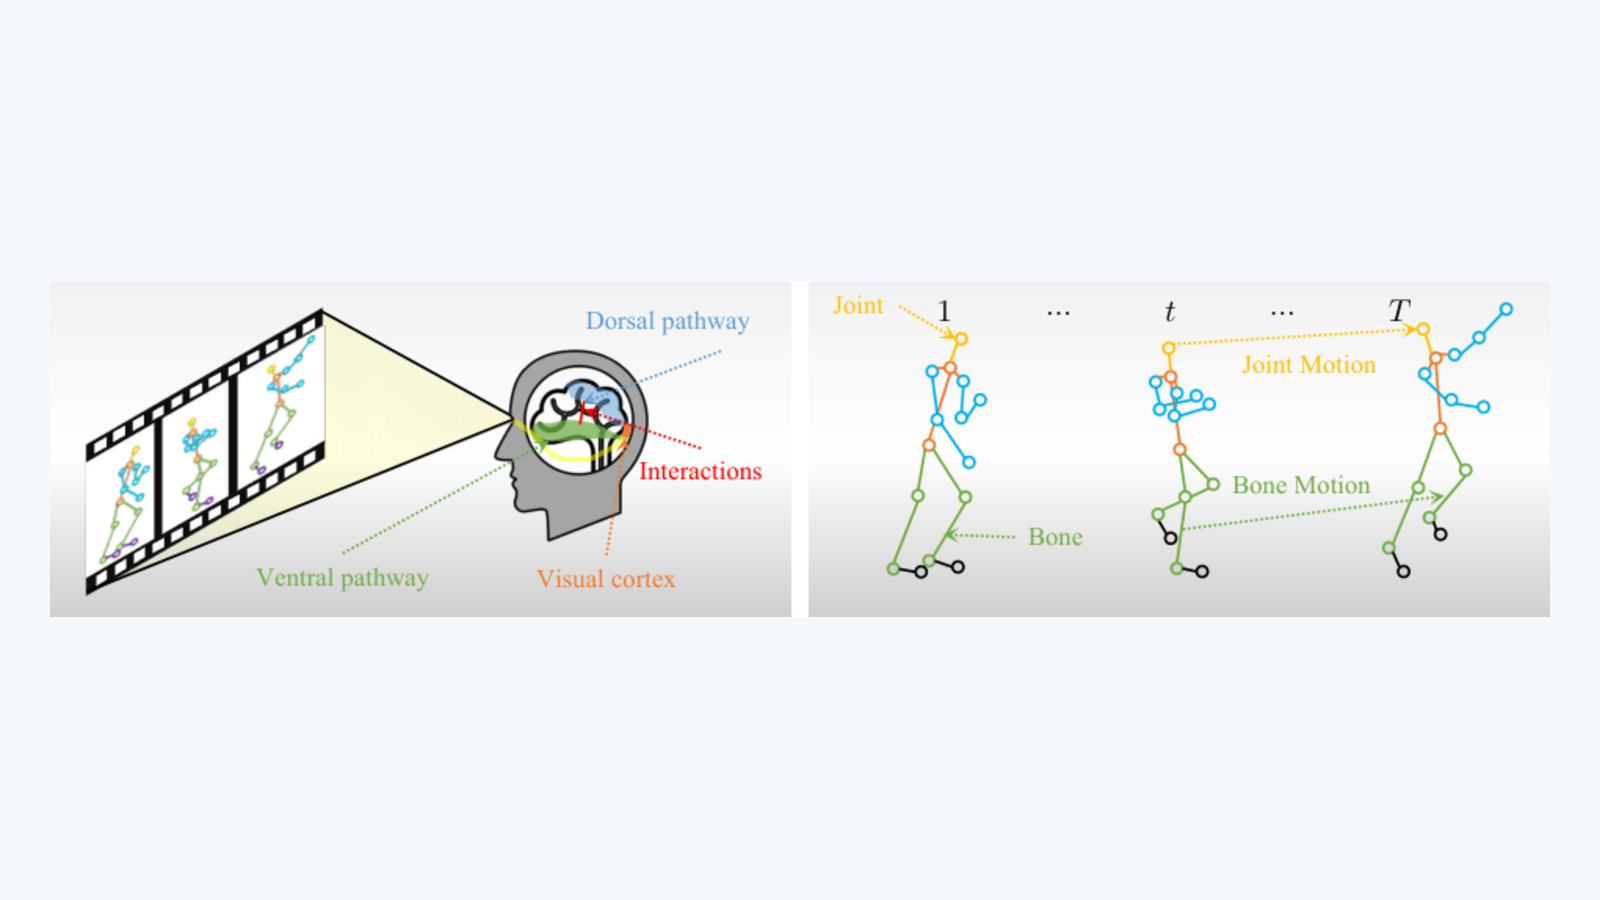
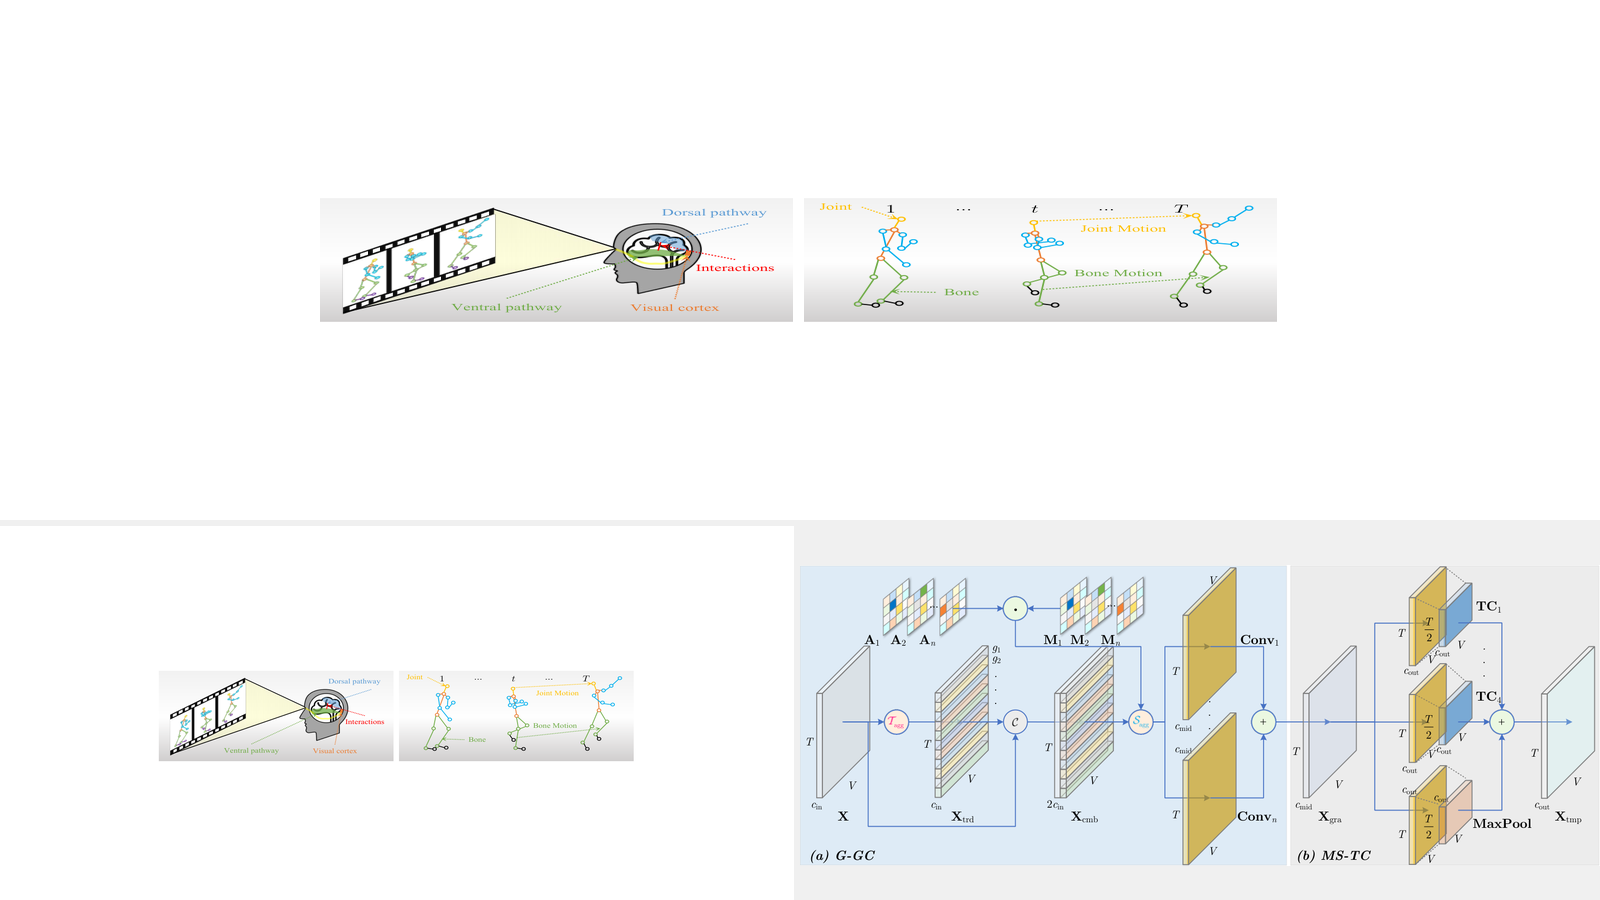
deploy: ZhouKanglei/ZKL-page@eb9e815d48cb6b4be95f74f9d78c2ef96aa6c5aa

diff --git a/publications/index.html b/publications/index.html
@@ -9935,7 +9935,7 @@ According to CCF Ranking 2026
     
       
       <a href="/publications/dualalign/" >
-        <img src="/publications/dualalign/featured_hu2c6c82b5b7f7fe32f763a8c38b9184f7_433187_150x0_resize_q75_h2_lanczos_3.webp"
+        <img src="/publications/dualalign/featured_hua90ec8a6fd02637ba0e7bcb6b740e75d_730568_150x0_resize_q75_h2_lanczos_3.webp"
             width="150" height="84"
             alt="Two-Stage Multi-Modal Fusion with Adaptive Alignment for Action Quality Assessment" loading="lazy">
       </a>
@@ -10949,7 +10949,7 @@ According to CCF Ranking 2026
     
       
       <a href="/publications/neuropath/" >
-        <img src="/publications/neuropath/featured_hu20c5179ab2d051b6f0931563039fc425_210019_150x0_resize_q75_h2_lanczos_3.webp"
+        <img src="/publications/neuropath/featured_hu09c499636f4b0f4edc79507adf7ca7d2_233836_150x0_resize_q75_h2_lanczos_3.webp"
             width="150" height="84"
             alt="NeuroPath: Brain-Inspired Dual-Pathway Graph Convolutional Networks for Skeleton-Based Action Recognition" loading="lazy">
       </a>

diff --git a/publication-type/2/index.html b/publication-type/2/index.html
@@ -6553,7 +6553,7 @@ According to CCF Ranking 2026
     
       
       <a href="/publications/dualalign/" >
-        <img src="/publications/dualalign/featured_hu2c6c82b5b7f7fe32f763a8c38b9184f7_433187_150x0_resize_q75_h2_lanczos_3.webp"
+        <img src="/publications/dualalign/featured_hua90ec8a6fd02637ba0e7bcb6b740e75d_730568_150x0_resize_q75_h2_lanczos_3.webp"
             width="150" height="84"
             alt="Two-Stage Multi-Modal Fusion with Adaptive Alignment for Action Quality Assessment" loading="lazy">
       </a>
@@ -7567,7 +7567,7 @@ According to CCF Ranking 2026
     
       
       <a href="/publications/neuropath/" >
-        <img src="/publications/neuropath/featured_hu20c5179ab2d051b6f0931563039fc425_210019_150x0_resize_q75_h2_lanczos_3.webp"
+        <img src="/publications/neuropath/featured_hu09c499636f4b0f4edc79507adf7ca7d2_233836_150x0_resize_q75_h2_lanczos_3.webp"
             width="150" height="84"
             alt="NeuroPath: Brain-Inspired Dual-Pathway Graph Convolutional Networks for Skeleton-Based Action Recognition" loading="lazy">
       </a>

diff --git a/tag/highlights/index.html b/tag/highlights/index.html
@@ -7063,7 +7063,7 @@ According to CCF Ranking 2026
     
       
       <a href="/publications/dualalign/" >
-        <img src="/publications/dualalign/featured_hu2c6c82b5b7f7fe32f763a8c38b9184f7_433187_150x0_resize_q75_h2_lanczos_3.webp"
+        <img src="/publications/dualalign/featured_hua90ec8a6fd02637ba0e7bcb6b740e75d_730568_150x0_resize_q75_h2_lanczos_3.webp"
             width="150" height="84"
             alt="Two-Stage Multi-Modal Fusion with Adaptive Alignment for Action Quality Assessment" loading="lazy">
       </a>
@@ -8077,7 +8077,7 @@ According to CCF Ranking 2026
     
       
       <a href="/publications/neuropath/" >
-        <img src="/publications/neuropath/featured_hu20c5179ab2d051b6f0931563039fc425_210019_150x0_resize_q75_h2_lanczos_3.webp"
+        <img src="/publications/neuropath/featured_hu09c499636f4b0f4edc79507adf7ca7d2_233836_150x0_resize_q75_h2_lanczos_3.webp"
             width="150" height="84"
             alt="NeuroPath: Brain-Inspired Dual-Pathway Graph Convolutional Networks for Skeleton-Based Action Recognition" loading="lazy">
       </a>

diff --git a/publications/dualalign/index.html b/publications/dualalign/index.html
@@ -3213,7 +3213,7 @@ According to CCF Ranking 2026
 
   <div class="article-header article-container featured-image-wrapper mt-4 mb-4" style="max-width: 720px; max-height: 405px;">
     <div style="position: relative">
-      <img src="/publications/dualalign/featured_hu2c6c82b5b7f7fe32f763a8c38b9184f7_433187_720x2500_fit_q75_h2_lanczos_3.webp" width="720" height="405" alt="" class="featured-image">
+      <img src="/publications/dualalign/featured_hua90ec8a6fd02637ba0e7bcb6b740e75d_730568_720x2500_fit_q75_h2_lanczos_3.webp" width="720" height="405" alt="" class="featured-image">
       <span class="article-header-caption">DualAlign framework overview</span>
     </div>
   </div>

diff --git a/publications/neuropath/index.html b/publications/neuropath/index.html
@@ -3213,7 +3213,7 @@ According to CCF Ranking 2026
 
   <div class="article-header article-container featured-image-wrapper mt-4 mb-4" style="max-width: 720px; max-height: 405px;">
     <div style="position: relative">
-      <img src="/publications/neuropath/featured_hu20c5179ab2d051b6f0931563039fc425_210019_720x2500_fit_q75_h2_lanczos_3.webp" width="720" height="405" alt="" class="featured-image">
+      <img src="/publications/neuropath/featured_hu09c499636f4b0f4edc79507adf7ca7d2_233836_720x2500_fit_q75_h2_lanczos_3.webp" width="720" height="405" alt="" class="featured-image">
       <span class="article-header-caption">NeuroPath framework overview</span>
     </div>
   </div>

diff --git a/tag/skeleton-based-action-recognition/index.html b/tag/skeleton-based-action-recognition/index.html
@@ -2953,7 +2953,7 @@ According to CCF Ranking 2026
     
       
       <a href="/publications/neuropath/" >
-        <img src="/publications/neuropath/featured_hu20c5179ab2d051b6f0931563039fc425_210019_150x0_resize_q75_h2_lanczos_3.webp"
+        <img src="/publications/neuropath/featured_hu09c499636f4b0f4edc79507adf7ca7d2_233836_150x0_resize_q75_h2_lanczos_3.webp"
             width="150" height="84"
             alt="NeuroPath: Brain-Inspired Dual-Pathway Graph Convolutional Networks for Skeleton-Based Action Recognition" loading="lazy">
       </a>

diff --git a/tag/action-quality-assessment/index.html b/tag/action-quality-assessment/index.html
@@ -5666,7 +5666,7 @@ According to CCF Ranking 2026
     
       
       <a href="/publications/dualalign/" >
-        <img src="/publications/dualalign/featured_hu2c6c82b5b7f7fe32f763a8c38b9184f7_433187_150x0_resize_q75_h2_lanczos_3.webp"
+        <img src="/publications/dualalign/featured_hua90ec8a6fd02637ba0e7bcb6b740e75d_730568_150x0_resize_q75_h2_lanczos_3.webp"
             width="150" height="84"
             alt="Two-Stage Multi-Modal Fusion with Adaptive Alignment for Action Quality Assessment" loading="lazy">
       </a>

diff --git a/tag/multi-modal-learning/index.html b/tag/multi-modal-learning/index.html
@@ -2766,7 +2766,7 @@ According to CCF Ranking 2026
     
       
       <a href="/publications/dualalign/" >
-        <img src="/publications/dualalign/featured_hu2c6c82b5b7f7fe32f763a8c38b9184f7_433187_150x0_resize_q75_h2_lanczos_3.webp"
+        <img src="/publications/dualalign/featured_hua90ec8a6fd02637ba0e7bcb6b740e75d_730568_150x0_resize_q75_h2_lanczos_3.webp"
             width="150" height="84"
             alt="Two-Stage Multi-Modal Fusion with Adaptive Alignment for Action Quality Assessment" loading="lazy">
       </a>
